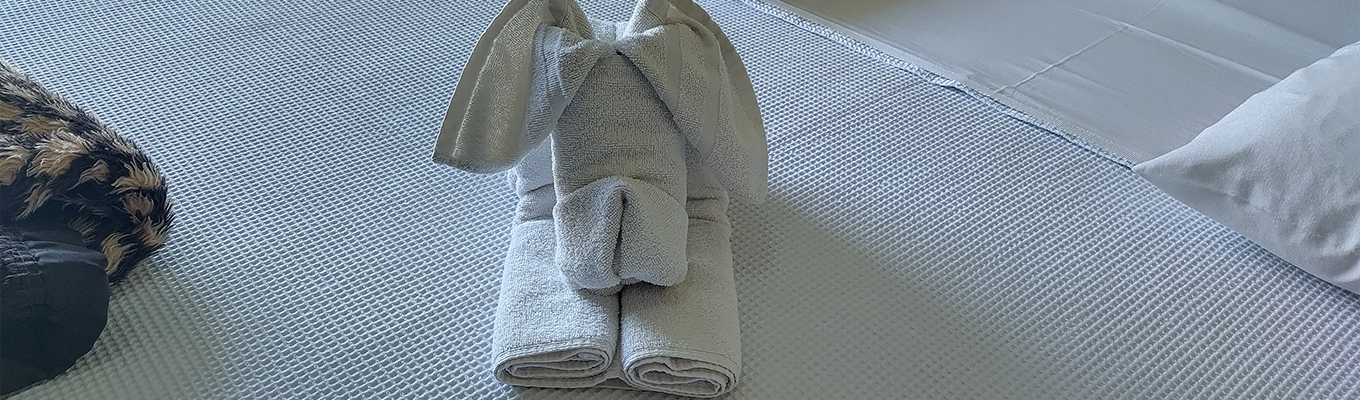
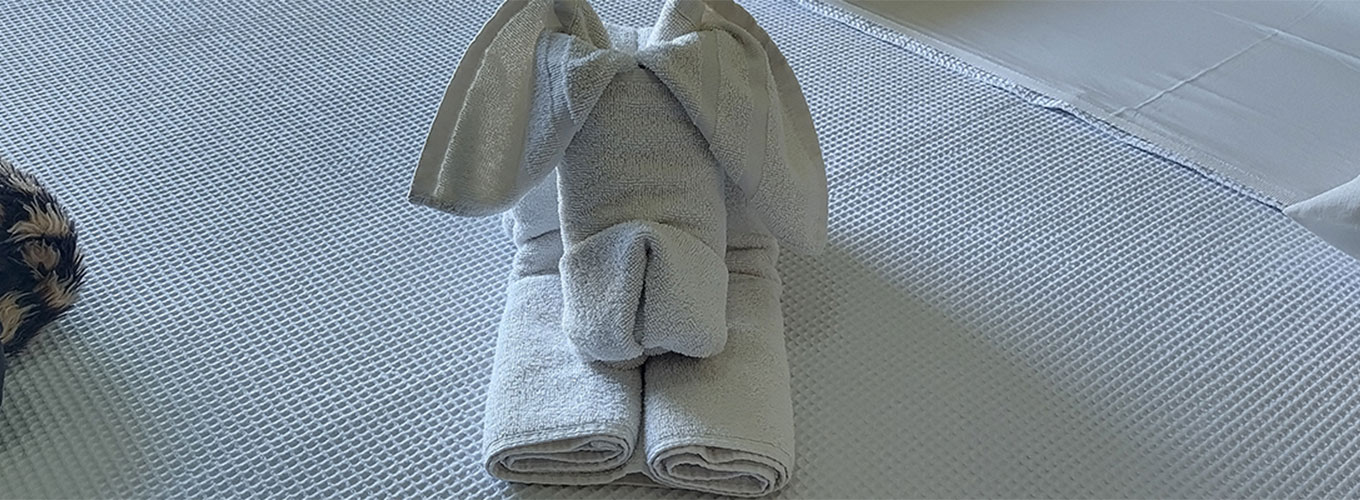
feat: slider on desktop

diff --git a/app/components/slider.jsx b/app/components/slider.jsx
@@ -9,12 +9,12 @@ export default function AutoSlider() {
   useEffect(() => {
     const interval = setInterval(() => {
       setCurrent((prev) => (prev === images.length - 1 ? 0 : prev + 1));
-    }, 3000);
+    }, 4000);
     return () => clearInterval(interval);
   }, []);
 
   return (
-    <div className="relative w-full h-[400px] overflow-hidden">
+    <div className="relative w-full h-[500px] overflow-hidden">
       <div
         className="flex transition-transform duration-1000 ease-in-out"
         style={{ transform: `translateX(-${current * 100}%)` }}
@@ -24,7 +24,7 @@ export default function AutoSlider() {
             key={index}
             src={img}
             alt={`Slide ${index + 1}`}
-            className="w-full flex-shrink-0 object-cover h-[400px]"
+            className="w-full flex-shrink-0 object-cover h-[500px]"
           />
         ))}
       </div>
